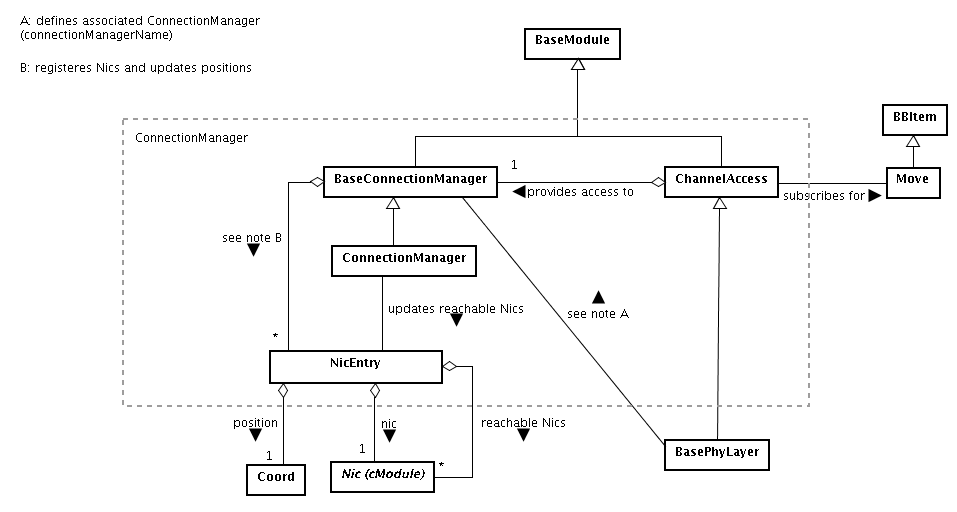
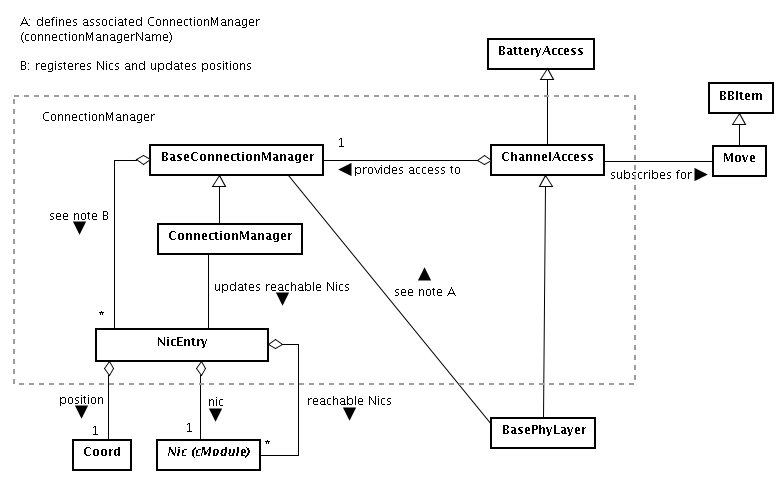
- updated documentation - added class diagramm and documentation for power and host state related modules

diff --git a/doc/groups.h b/doc/groups.h
@@ -260,4 +260,21 @@
 
 /**
  * @defgroup power Power consumption - Classes using/defining power consumption
+ *
+ * \image html power.png "Classes handling power consumption and host state"
+ *
+ * Every BaseModule automatically receives HostState changes published by BaseUtilities
+ * blackboard functionality. BaseModule itself raises an error inside "handleHostState()"
+ * method if the hosts state changes to something else then active. This means every
+ * host module (which derives from BaseModule) has to override this method if it wants
+ * to work with host states other then active (like sleep, or off).
+ *
+ * BaseBattery defines the methods every battery module (or power source) has to implement
+ * for tracking power consumption.
+ * BatteryAccess provides for every host module access to the battery (/power source)
+ * by providing methods for registration with and drawing power from the battery.
+ *
+ * SimpleBattery is a simple implementation of a battery module.
+ * PhyLayerBattery and BurstApplicationLayerBattery are only two examples for
+ * host modules which support power consumption and host state changes.
  */

diff --git a/base/modules/BaseWorldUtility.h b/base/modules/BaseWorldUtility.h
@@ -28,7 +28,7 @@
  * @brief Provides information and utility methods as well as Blackboard
  * functionality for the whole simulation.
  *
- * @see Blackboard
+ * @ingroup blackboard
  * @ingroup baseModules
  */
 class BaseWorldUtility : public Blackboard

diff --git a/base/modules/BaseUtility.h b/base/modules/BaseUtility.h
@@ -25,7 +25,7 @@
  * @brief Provides several utilities (mainly Blackboard functionality
  * for a host).
  *
- * @see Blackboard
+ * @ingroup blackboard
  * @ingroup baseModules
  *
  * @author Andreas Koepke
